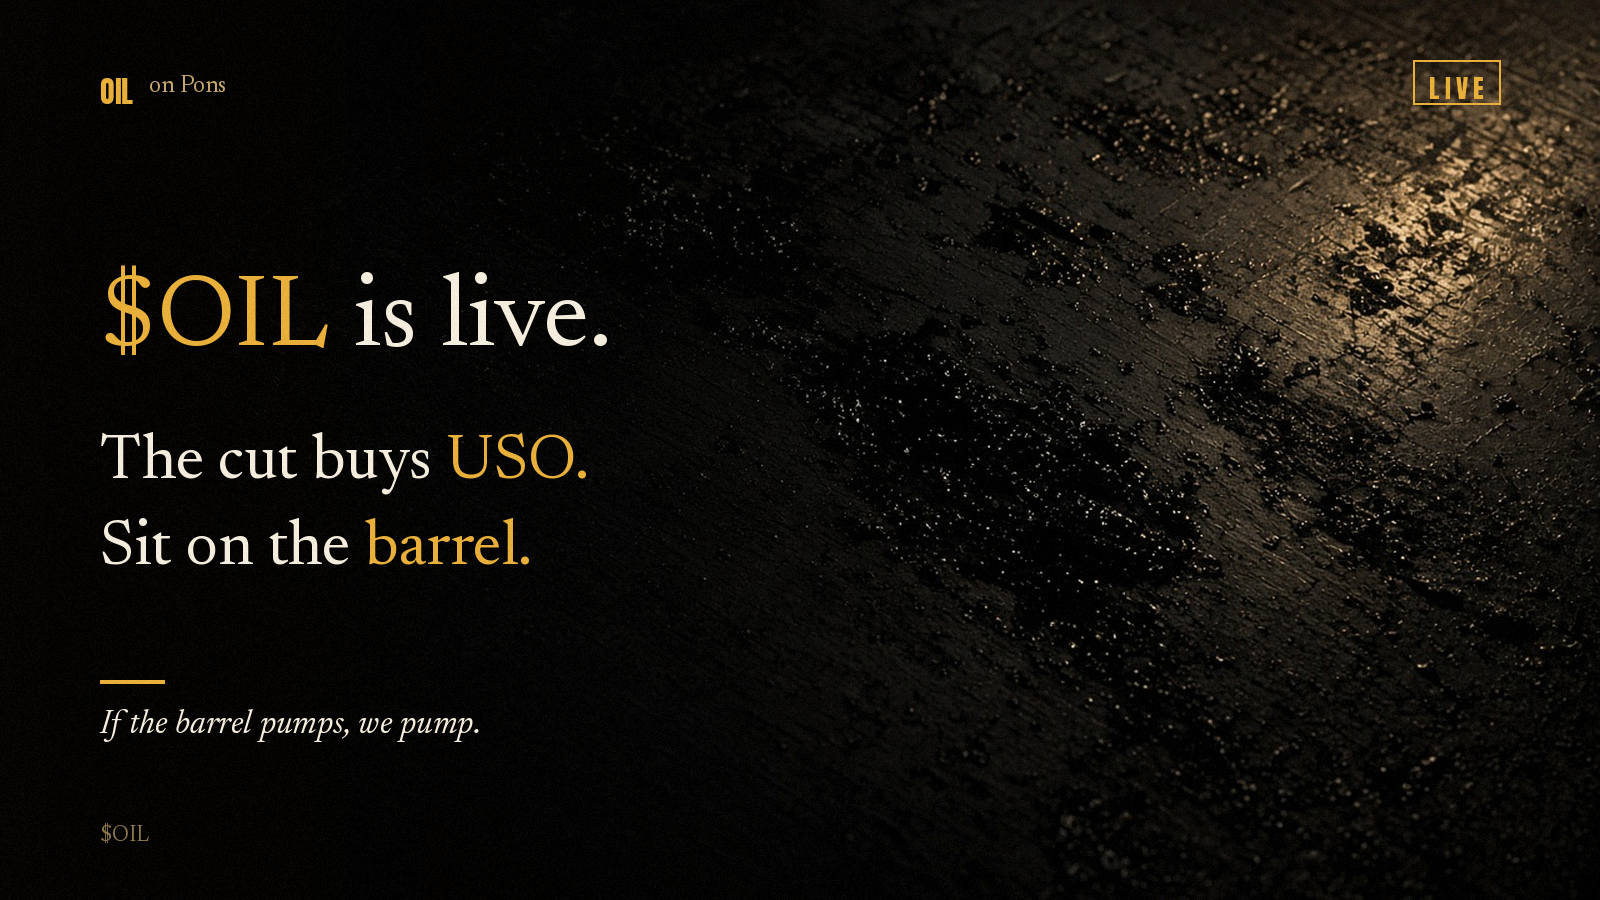
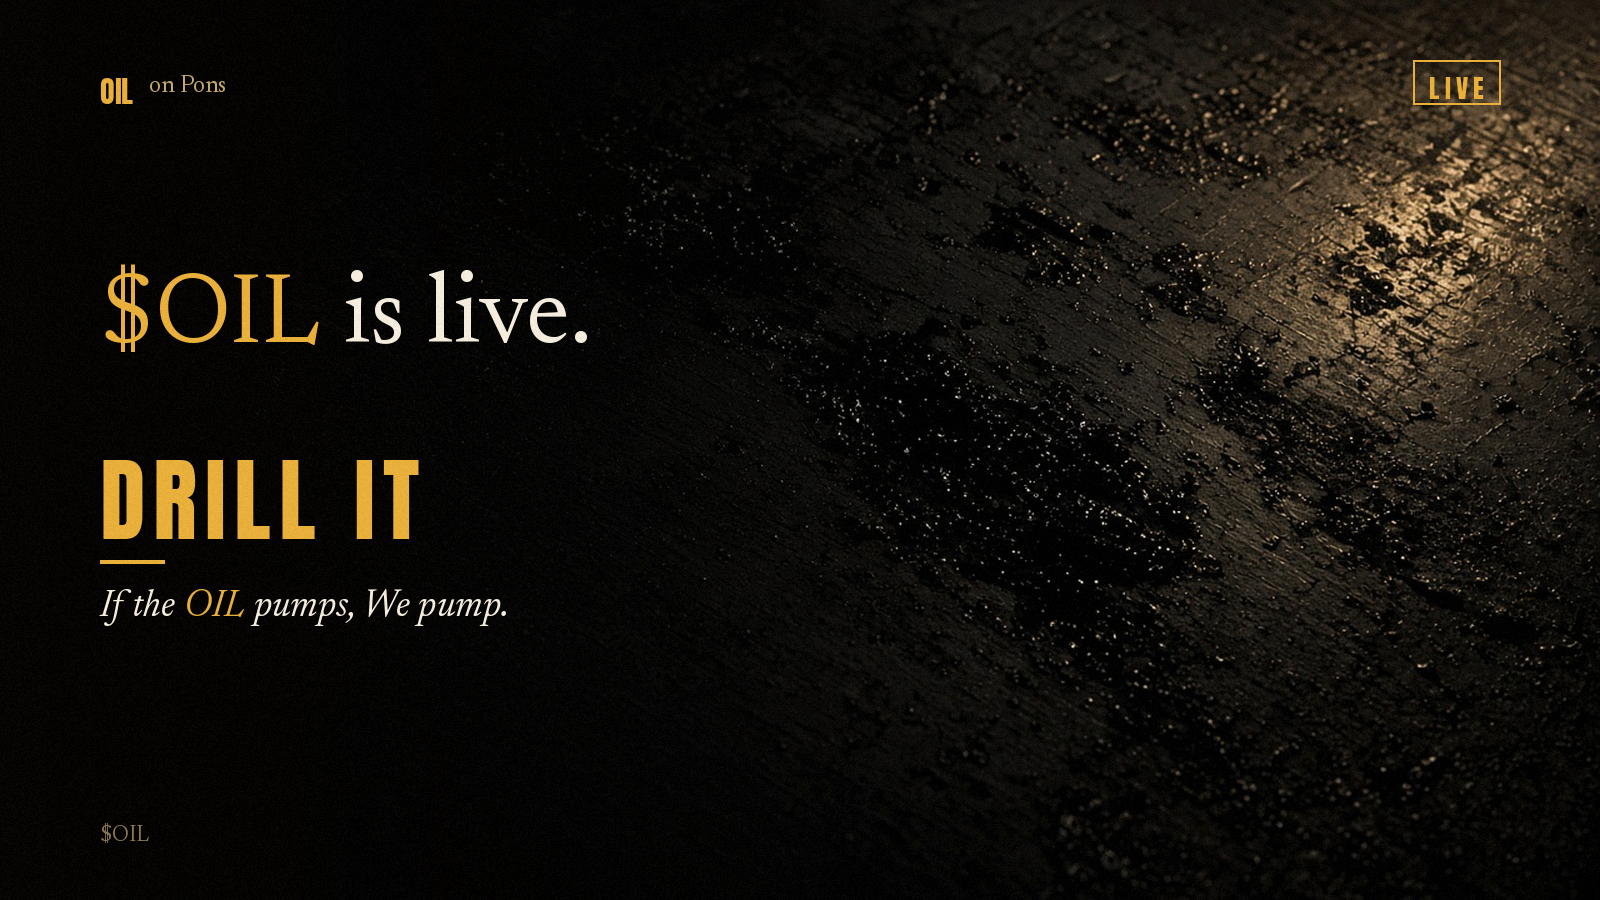
Set LIVE card copy to $OIL is live / DRILL IT

Changed region(s): [[0.0625, 0.4667, 0.375, 0.6844], [0.0625, 0.28, 0.375, 0.4044], [0.0625, 0.7467, 0.2812, 0.84]]

diff --git a/public/brand/tweets/TWEETS.md b/public/brand/tweets/TWEETS.md
@@ -8,9 +8,8 @@ Use `01-live.png` (type card). Backup: `05-token-is-live.png`.
 
 ```
 $OIL is live.
-
-The cut buys USO.
-Sit on the barrel.
+DRILL IT
+If the OIL pumps, We pump.
 ```
 
 ## 2. Drill baby drill
